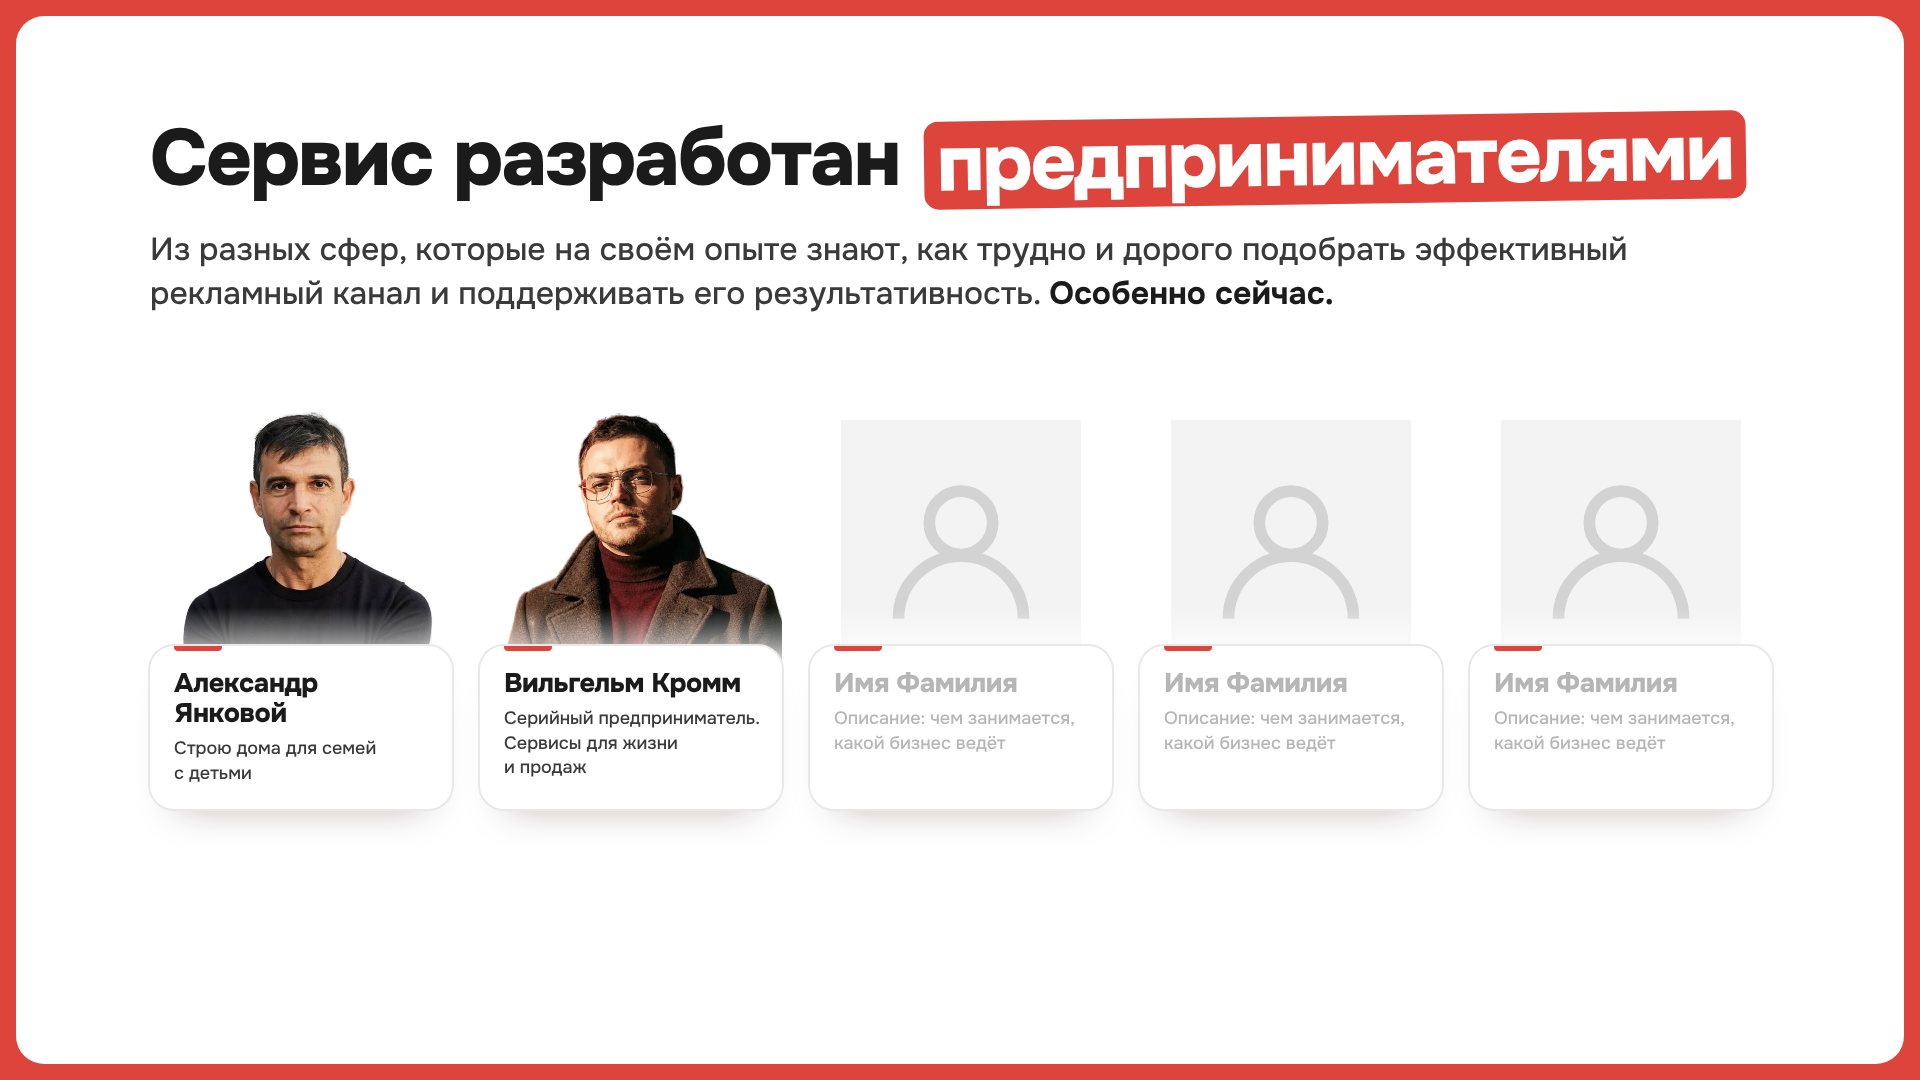
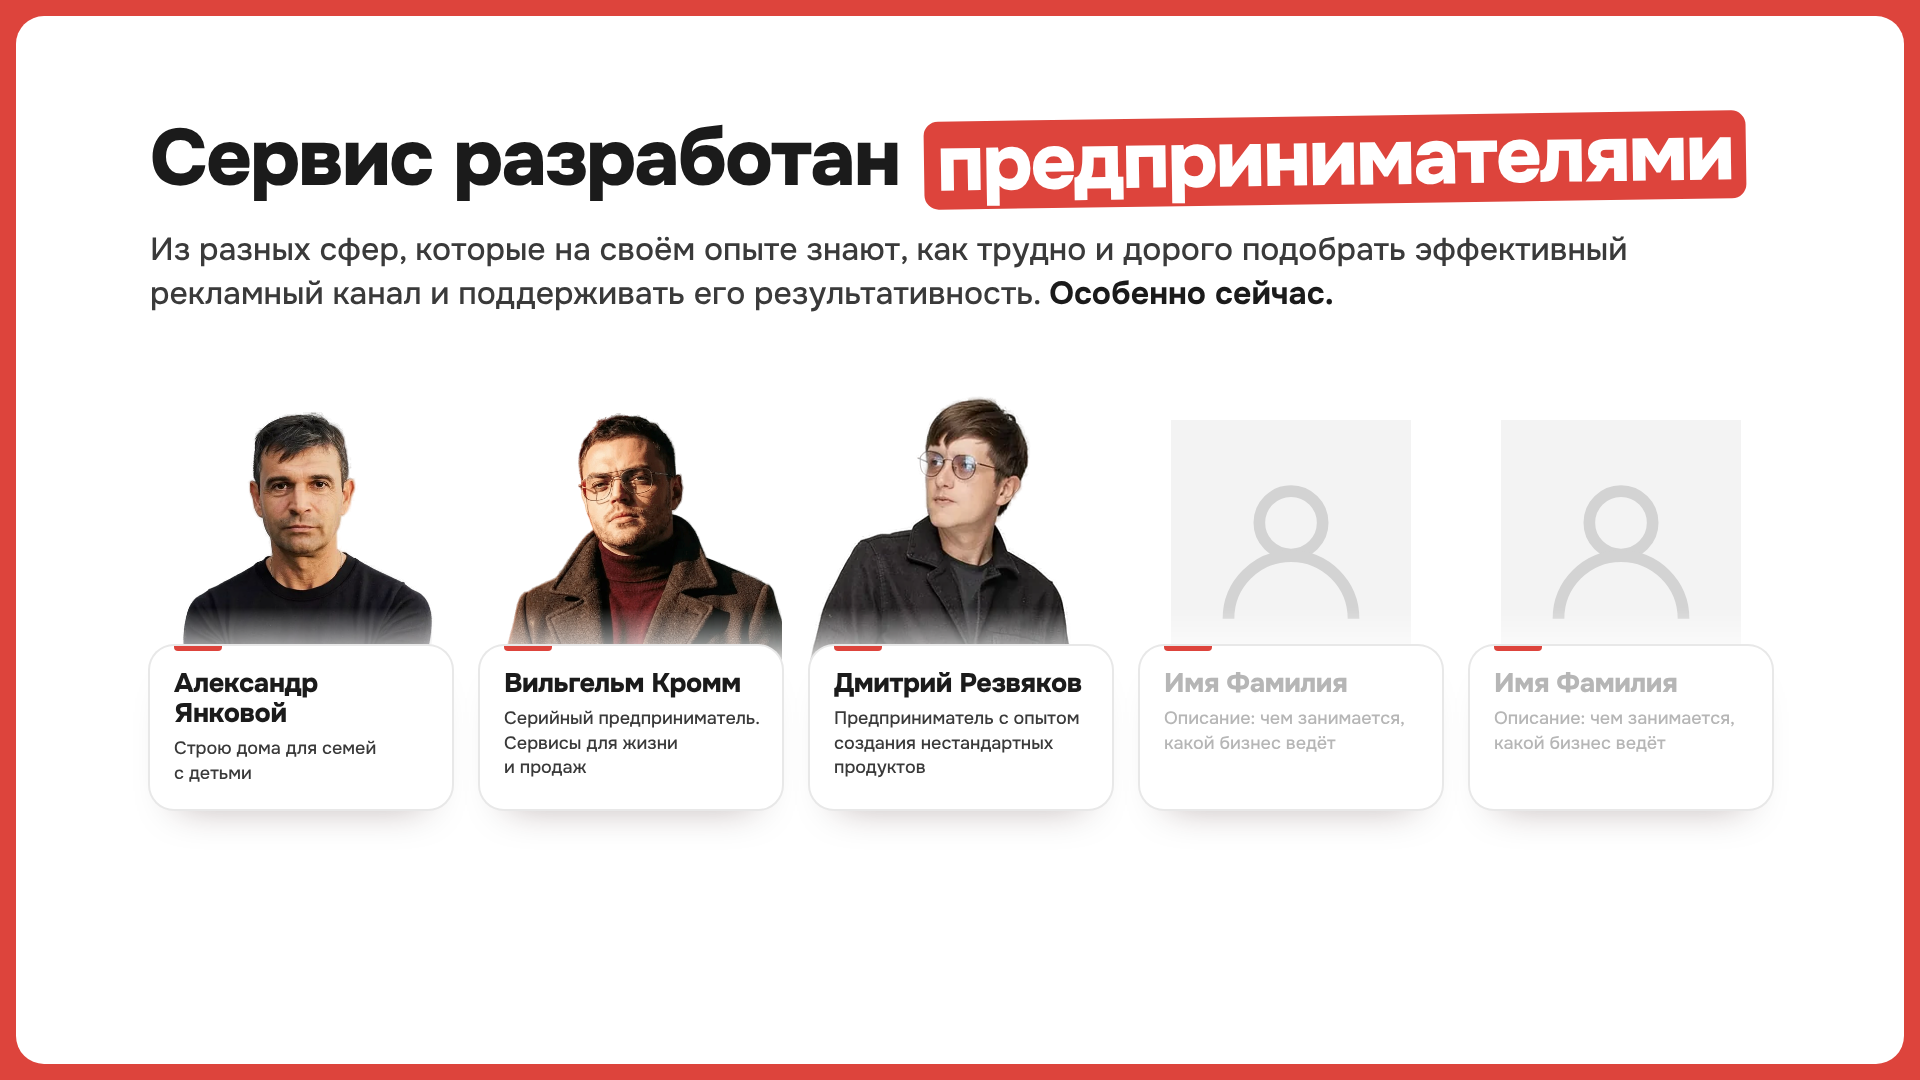
Презентация v3: в команде Дмитрий Резвяков — фото без фона вместо первой заглушки
Claude-Session: https://claude.ai/code/session_01Snvup9eyYcWggZAX2KLTqV

Changed region(s): [[0.4062, 0.3667, 0.5625, 0.7333]]

diff --git a/social-kit/deck-v3.html b/social-kit/deck-v3.html
@@ -960,7 +960,7 @@ a{color:inherit;text-decoration:none}
     <div class="team">
       <div class="mate"><div class="mate__ph" style="background-image:url('photos/team/yankovoy.png')"></div><div class="mate__c"><div class="mate__n">Александр Янковой</div><div class="mate__r">Строю дома для&nbsp;семей с&nbsp;детьми</div></div></div>
       <div class="mate"><div class="mate__ph" style="background-image:url('photos/team/krom.png')"></div><div class="mate__c"><div class="mate__n">Вильгельм Кромм</div><div class="mate__r">Серийный&nbsp;предприниматель.<br>Сервисы для&nbsp;жизни и&nbsp;продаж</div></div></div>
-      <div class="mate"><div class="mate__ph mate__ph--todo"><svg viewBox="0 0 24 24" fill="none" stroke="currentColor" stroke-width="1.4"><circle cx="12" cy="8.5" r="3.8"/><path d="M4.5 20a7.5 7.5 0 0 1 15 0"/></svg></div><div class="mate__c"><div class="mate__n todo">Имя Фамилия</div><div class="mate__r todo">Описание: чем занимается, какой бизнес ведёт</div></div></div>
+      <div class="mate"><div class="mate__ph" style="background-image:url('photos/team/rezvyakov.png')"></div><div class="mate__c"><div class="mate__n">Дмитрий Резвяков</div><div class="mate__r">Предприниматель с&nbsp;опытом создания нестандартных продуктов</div></div></div>
       <div class="mate"><div class="mate__ph mate__ph--todo"><svg viewBox="0 0 24 24" fill="none" stroke="currentColor" stroke-width="1.4"><circle cx="12" cy="8.5" r="3.8"/><path d="M4.5 20a7.5 7.5 0 0 1 15 0"/></svg></div><div class="mate__c"><div class="mate__n todo">Имя Фамилия</div><div class="mate__r todo">Описание: чем занимается, какой бизнес ведёт</div></div></div>
       <div class="mate"><div class="mate__ph mate__ph--todo"><svg viewBox="0 0 24 24" fill="none" stroke="currentColor" stroke-width="1.4"><circle cx="12" cy="8.5" r="3.8"/><path d="M4.5 20a7.5 7.5 0 0 1 15 0"/></svg></div><div class="mate__c"><div class="mate__n todo">Имя Фамилия</div><div class="mate__r todo">Описание: чем занимается, какой бизнес ведёт</div></div></div>
     </div>
